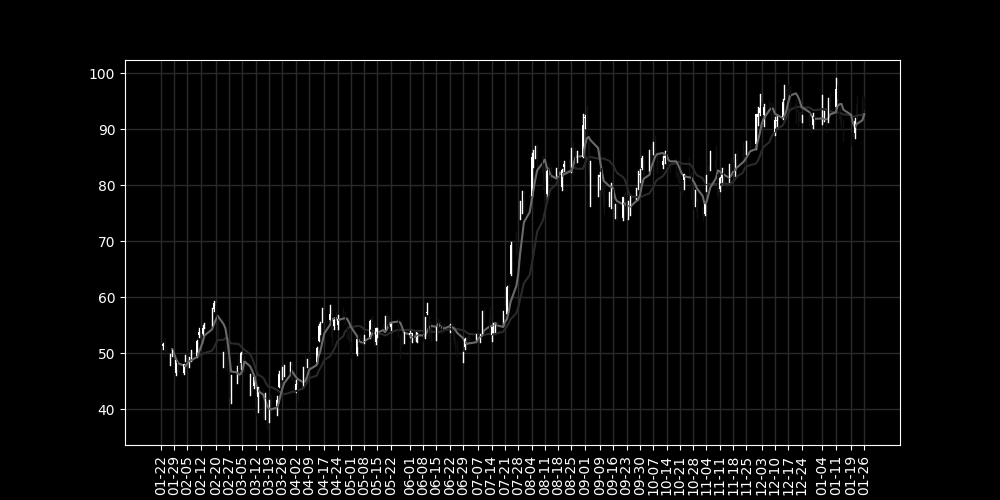
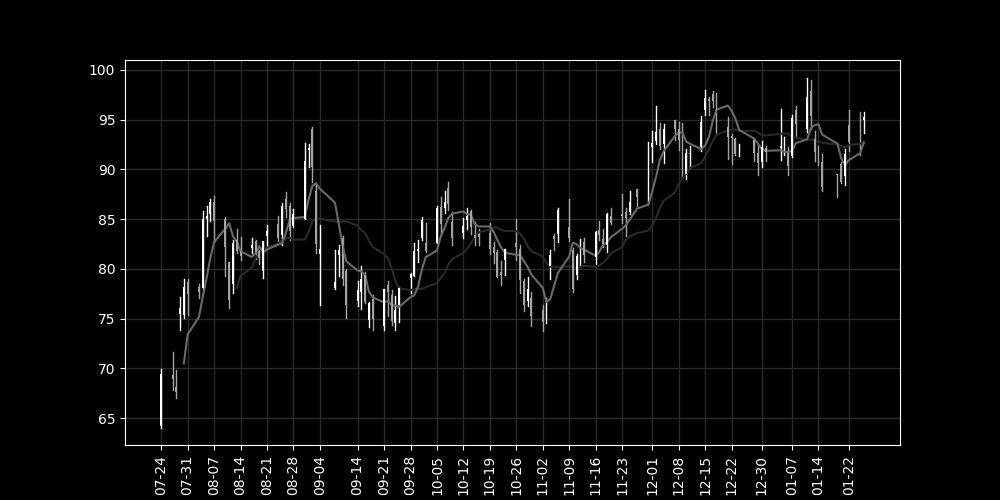
update color format visualization, fixes #2

diff --git a/src/visualize.py b/src/visualize.py
@@ -14,7 +14,7 @@ fig = plt.figure(figsize=(10,5))
 ax = fig.add_subplot(111)
 
 # draw chart from data
-ax = data.draw_chart(ax, data.sec_hist, 'white','#101010')
+ax = data.draw_chart(ax, data.sec_hist, 'white','#a4a4a4')
 ax = process.sma(15, ax, data.sec_hist, '#2a2a2a')
 ax = process.sma(5, ax, data.sec_hist, '#6a6a6a')
 

diff --git a/src/data.py b/src/data.py
@@ -7,7 +7,7 @@ import matplotlib as mpl
 
 # get security history
 sec = yf.Ticker('AMD')
-sec_hist = sec.history(period='256d')
+sec_hist = sec.history(period='128d')
 sec_hist.reset_index(inplace=True)
 
 # get bars
